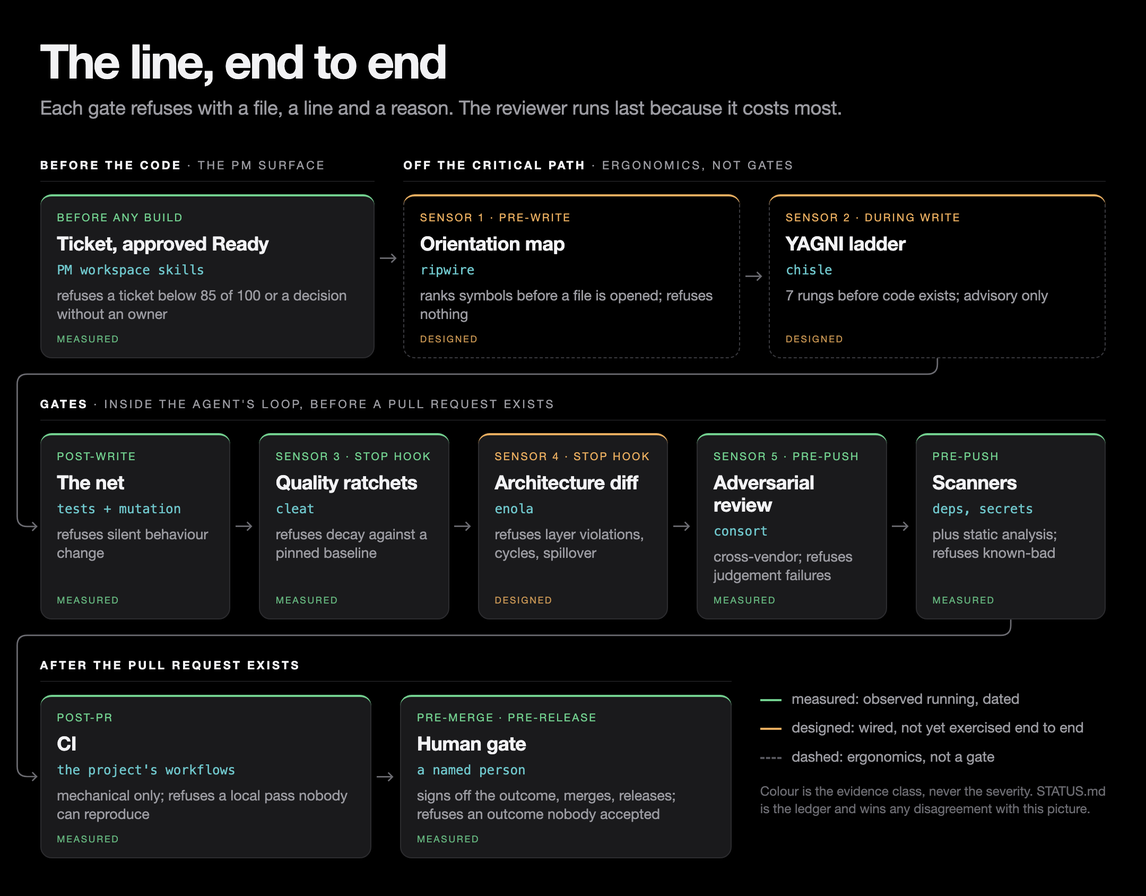
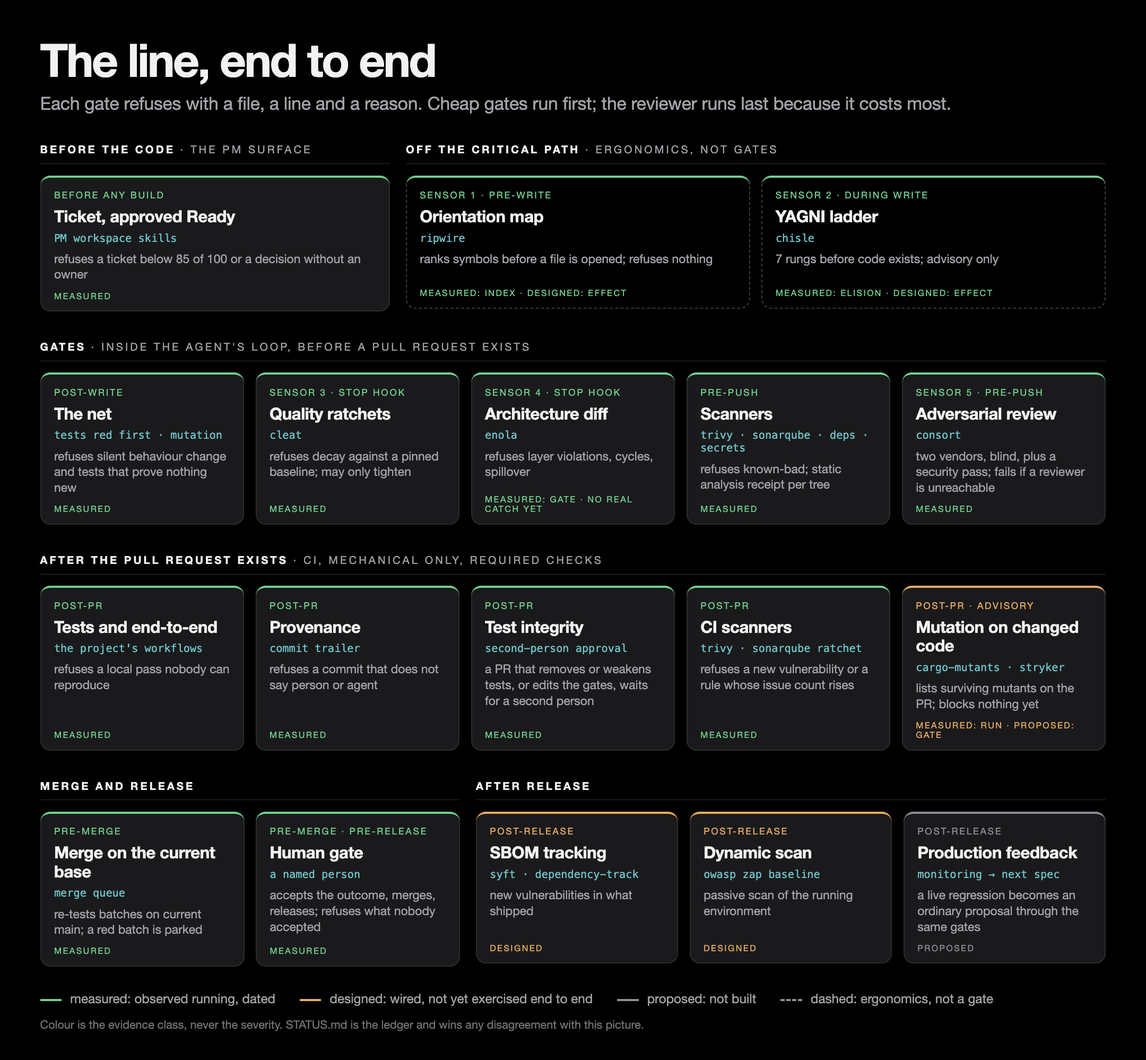
docs: redraw the line end to end with every gate and its current evidence class
The picture had stale classes (orientation map, YAGNI ladder and architecture diff shown as
designed while STATUS.md records them measured) and was missing the post-PR required checks
(provenance, test integrity, CI scanners), the merge queue, mutation in CI, and the
after-release stages. Generated from one source; README table and STATUS.md rows follow.

diff --git a/docs/img/src/the-line.html b/docs/img/src/the-line.html
@@ -1,182 +1,49 @@
 <!doctype html>
-<!-- Source for docs/img/the-line.png. Regenerate with docs/img/src/render.sh after editing. -->
-<html data-height="1250"><head><meta charset="utf-8"><title>The line, end to end</title>
-<style>
-  :root {
-    --bg: #000; --card: #1a1a1c; --edge: #2c2c2f; --text: #f2f2f4; --dim: #9b9ba1; --faint: #6c6c72;
-    --measured: #72d08f; --designed: #e8ad5f; --tool: #6fc6cb;
-  }
+<!-- Source for the line diagram. Regenerate the PNG with headless Chrome (docs/img/src/render.sh in the factory repository). -->
+<html data-height="1480"><head><meta charset="utf-8"><title>The line, end to end</title><style>
+  :root { --bg:#000; --card:#1a1a1c; --edge:#2c2c2f; --text:#f2f2f4; --dim:#a3a3a9; --faint:#74747a; --tool:#6fc6cb;
+    --g:#72d08f; --a:#e8ad5f; --p:#8f8f96; --u:#6fc6cb; }
   * { box-sizing: border-box; margin: 0; }
   html, body { background: var(--bg); }
   body { width: 1600px; padding: 52px 56px 56px; color: var(--text);
-    font-family: "SF Pro Display", -apple-system, "Helvetica Neue", Helvetica, Arial, sans-serif;
-    position: relative; }
-  h1 { font-size: 66px; font-weight: 700; letter-spacing: -2.6px; line-height: 1; }
-  .sub { font-size: 27px; color: var(--dim); margin-top: 16px; letter-spacing: -0.2px; }
-  .row { display: flex; align-items: stretch; margin-top: 54px; }
-  .group { display: flex; flex-direction: column; }
-  .label { font-size: 16px; letter-spacing: 3px; color: var(--dim); text-transform: uppercase;
-    padding-bottom: 12px; margin-bottom: 18px; border-bottom: 1px solid #2f2f33; white-space: nowrap; }
-  .label b { color: var(--text); font-weight: 600; }
-  .cards { display: flex; align-items: stretch; flex: 1; }
-  .card { flex: 1; min-width: 0; background: var(--card); border: 1.5px solid var(--edge);
-    border-radius: 16px; padding: 22px 22px 18px; display: flex; flex-direction: column;
-    position: relative; min-height: 212px; }
-  .card::before { content: ""; position: absolute; inset: -1.5px -1.5px auto -1.5px; height: 18px;
-    border-top: 3px solid var(--c); border-radius: 16px 16px 0 0; }
-  .card.measured { --c: var(--measured); }
-  .card.designed { --c: var(--designed); }
+    font-family: "SF Pro Display", -apple-system, "Helvetica Neue", Helvetica, Arial, sans-serif; }
+  h1 { font-size: 64px; font-weight: 700; letter-spacing: -2.4px; line-height: 1; }
+  .sub { font-size: 25px; color: var(--dim); margin-top: 14px; letter-spacing: -0.2px; }
+  .row { margin-top: 40px; display: grid; gap: 0 22px; }
+  .lab { font-size: 15px; letter-spacing: 3px; color: var(--dim); text-transform: uppercase; padding-bottom: 10px;
+    margin-bottom: 16px; border-bottom: 1px solid #2f2f33; white-space: nowrap; }
+  .lab b { color: var(--text); font-weight: 600; }
+  .cards { display: grid; gap: 16px; }
+  .card { background: var(--card); border: 1.5px solid var(--edge); border-radius: 14px; padding: 18px 18px 14px;
+    display: flex; flex-direction: column; position: relative; min-height: 186px; }
+  .card::before { content: ""; position: absolute; inset: -1.5px -1.5px auto -1.5px; height: 16px;
+    border-top: 3px solid var(--c); border-radius: 14px 14px 0 0; }
   .card.ghost { background: transparent; border-style: dashed; border-color: #3a3a3f; }
-  .k { font-size: 15px; letter-spacing: 2.2px; color: var(--c); text-transform: uppercase; }
-  .t { font-size: 27px; font-weight: 700; letter-spacing: -0.4px; margin-top: 12px; line-height: 1.15; }
-  .tool { font-family: "SF Mono", Menlo, Consolas, monospace; font-size: 18px; white-space: nowrap; color: var(--tool); margin-top: 10px; }
-  .r { font-size: 20px; color: var(--dim); margin-top: 12px; line-height: 1.3; }
-  .cls { margin-top: auto; padding-top: 14px; font-size: 13px; letter-spacing: 2px; color: var(--c);
-    text-transform: uppercase; opacity: .85; }
-  .gap { width: 40px; flex: none; display: flex; align-items: center; justify-content: center; }
-  .gap svg { width: 26px; height: 14px; }
-  .lead { width: 0; }
-  .legend { flex: 1; padding: 44px 0 0 40px; display: flex; flex-direction: column; gap: 16px;
-    font-size: 20px; color: var(--dim); }
-  .legend .sw { display: inline-block; width: 30px; height: 0; border-top: 3px solid; vertical-align: middle; margin-right: 14px; }
-  .legend .note { font-size: 18px; color: var(--faint); margin-top: 8px; line-height: 1.35; }
-  #wires { position: absolute; inset: 0; pointer-events: none; }
-</style></head>
-<body>
-<h1>The line, end to end</h1>
-<p class="sub">Each gate refuses with a file, a line and a reason. The reviewer runs last because it costs most.</p>
-
-<section class="row">
-  <div class="group" style="flex: 1">
-    <div class="label"><b>Before the code</b> · the PM surface</div>
-    <div class="cards">
-      <div class="card measured" id="first">
-        <div class="k">Before any build</div>
-        <div class="t">Ticket, approved Ready</div>
-        <div class="tool">PM workspace skills</div>
-        <div class="r">refuses a ticket below 85 of 100 or a decision without an owner</div>
-        <div class="cls">measured</div>
-      </div>
-    </div>
-  </div>
-  <div class="gap"><svg viewBox="0 0 26 14"><path d="M0 7h22M16 1l6 6-6 6" fill="none" stroke="#6c6c72" stroke-width="2"/></svg></div>
-  <div class="group" style="flex: 2.1">
-    <div class="label"><b>Off the critical path</b> · ergonomics, not gates</div>
-    <div class="cards">
-      <div class="card designed ghost">
-        <div class="k">Sensor 1 · pre-write</div>
-        <div class="t">Orientation map</div>
-        <div class="tool">ripwire</div>
-        <div class="r">ranks symbols before a file is opened; refuses nothing</div>
-        <div class="cls">designed</div>
-      </div>
-      <div class="gap"><svg viewBox="0 0 26 14"><path d="M0 7h22M16 1l6 6-6 6" fill="none" stroke="#6c6c72" stroke-width="2"/></svg></div>
-      <div class="card designed ghost" data-wire="a">
-        <div class="k">Sensor 2 · during write</div>
-        <div class="t">YAGNI ladder</div>
-        <div class="tool">chisle</div>
-        <div class="r">7 rungs before code exists; advisory only</div>
-        <div class="cls">designed</div>
-      </div>
-    </div>
-  </div>
+  .k { font-size: 13px; letter-spacing: 2px; color: var(--c); text-transform: uppercase; }
+  .t { font-size: 23px; font-weight: 700; letter-spacing: -0.3px; margin-top: 9px; line-height: 1.15; }
+  .tool { font-family: "SF Mono", Menlo, Consolas, monospace; font-size: 15px; color: var(--tool); margin-top: 8px; }
+  .r { font-size: 17px; color: var(--dim); margin-top: 9px; line-height: 1.3; }
+  .cls { margin-top: auto; padding-top: 12px; font-size: 12px; letter-spacing: 1.8px; color: var(--c); text-transform: uppercase; }
+  .legend { margin-top: 34px; display: flex; gap: 34px; flex-wrap: wrap; font-size: 18px; color: var(--dim); align-items: center; }
+  .legend .sw { display: inline-block; width: 30px; height: 0; border-top: 3px solid; vertical-align: middle; margin-right: 12px; }
+  .legend .dash { border-top-style: dashed; }
+  .note { font-size: 16px; color: var(--faint); margin-top: 14px; line-height: 1.4; max-width: 1400px; }
+</style></head><body>
+<h1>The line, end to end</h1><p class="sub">Each gate refuses with a file, a line and a reason. Cheap gates run first; the reviewer runs last because it costs most.</p>
+<section class="row" style="grid-template-columns:1fr 2fr">
+<div><div class="lab"><b>Before the code</b> · the PM surface</div><div class="cards" style="grid-template-columns:repeat(1,1fr)"><div class="card" style="--c:var(--g)"><div class="k">Before any build</div><div class="t">Ticket, approved Ready</div><div class="tool">PM workspace skills</div><div class="r">refuses a ticket below 85 of 100 or a decision without an owner</div><div class="cls">measured</div></div></div></div>
+<div><div class="lab"><b>Off the critical path</b> · ergonomics, not gates</div><div class="cards" style="grid-template-columns:repeat(2,1fr)"><div class="card ghost" style="--c:var(--g)"><div class="k">Sensor 1 · pre-write</div><div class="t">Orientation map</div><div class="tool">ripwire</div><div class="r">ranks symbols before a file is opened; refuses nothing</div><div class="cls">measured: index · designed: effect</div></div><div class="card ghost" style="--c:var(--g)"><div class="k">Sensor 2 · during write</div><div class="t">YAGNI ladder</div><div class="tool">chisle</div><div class="r">7 rungs before code exists; advisory only</div><div class="cls">measured: elision · designed: effect</div></div></div></div>
 </section>
-
-<section class="row">
-  <div class="group" style="flex: 1">
-    <div class="label"><b>Gates</b> · inside the agent's loop, before a pull request exists</div>
-    <div class="cards">
-      <div class="card measured" data-wire-in="a">
-        <div class="k">Post-write</div>
-        <div class="t">The net</div>
-        <div class="tool">tests + mutation</div>
-        <div class="r">refuses silent behaviour change</div>
-        <div class="cls">measured</div>
-      </div>
-      <div class="gap"><svg viewBox="0 0 26 14"><path d="M0 7h22M16 1l6 6-6 6" fill="none" stroke="#6c6c72" stroke-width="2"/></svg></div>
-      <div class="card measured">
-        <div class="k">Sensor 3 · Stop hook</div>
-        <div class="t">Quality ratchets</div>
-        <div class="tool">cleat</div>
-        <div class="r">refuses decay against a pinned baseline</div>
-        <div class="cls">measured</div>
-      </div>
-      <div class="gap"><svg viewBox="0 0 26 14"><path d="M0 7h22M16 1l6 6-6 6" fill="none" stroke="#6c6c72" stroke-width="2"/></svg></div>
-      <div class="card designed">
-        <div class="k">Sensor 4 · Stop hook</div>
-        <div class="t">Architecture diff</div>
-        <div class="tool">enola</div>
-        <div class="r">refuses layer violations, cycles, spillover</div>
-        <div class="cls">designed</div>
-      </div>
-      <div class="gap"><svg viewBox="0 0 26 14"><path d="M0 7h22M16 1l6 6-6 6" fill="none" stroke="#6c6c72" stroke-width="2"/></svg></div>
-      <div class="card measured">
-        <div class="k">Sensor 5 · pre-push</div>
-        <div class="t">Adversarial review</div>
-        <div class="tool">consort</div>
-        <div class="r">cross-vendor; refuses judgement failures</div>
-        <div class="cls">measured</div>
-      </div>
-      <div class="gap"><svg viewBox="0 0 26 14"><path d="M0 7h22M16 1l6 6-6 6" fill="none" stroke="#6c6c72" stroke-width="2"/></svg></div>
-      <div class="card measured" data-wire="b">
-        <div class="k">Pre-push</div>
-        <div class="t">Scanners</div>
-        <div class="tool">deps, secrets</div>
-        <div class="r">plus static analysis; refuses known-bad</div>
-        <div class="cls">measured</div>
-      </div>
-    </div>
-  </div>
+<section class="row" style="grid-template-columns:5fr">
+<div><div class="lab"><b>Gates</b> · inside the agent&#x27;s loop, before a pull request exists</div><div class="cards" style="grid-template-columns:repeat(5,1fr)"><div class="card" style="--c:var(--g)"><div class="k">Post-write</div><div class="t">The net</div><div class="tool">tests red first · mutation</div><div class="r">refuses silent behaviour change and tests that prove nothing new</div><div class="cls">measured</div></div><div class="card" style="--c:var(--g)"><div class="k">Sensor 3 · stop hook</div><div class="t">Quality ratchets</div><div class="tool">cleat</div><div class="r">refuses decay against a pinned baseline; may only tighten</div><div class="cls">measured</div></div><div class="card" style="--c:var(--g)"><div class="k">Sensor 4 · stop hook</div><div class="t">Architecture diff</div><div class="tool">enola</div><div class="r">refuses layer violations, cycles, spillover</div><div class="cls">measured: gate · no real catch yet</div></div><div class="card" style="--c:var(--g)"><div class="k">Pre-push</div><div class="t">Scanners</div><div class="tool">trivy · sonarqube · deps · secrets</div><div class="r">refuses known-bad; static analysis receipt per tree</div><div class="cls">measured</div></div><div class="card" style="--c:var(--g)"><div class="k">Sensor 5 · pre-push</div><div class="t">Adversarial review</div><div class="tool">consort</div><div class="r">two vendors, blind, plus a security pass; fails if a reviewer is unreachable</div><div class="cls">measured</div></div></div></div>
 </section>
-
-<section class="row">
-  <div class="group" style="flex: 2">
-    <div class="label"><b>After the pull request exists</b></div>
-    <div class="cards">
-      <div class="card measured" data-wire-in="b">
-        <div class="k">Post-PR</div>
-        <div class="t">CI</div>
-        <div class="tool">the project's workflows</div>
-        <div class="r">mechanical only; refuses a local pass nobody can reproduce</div>
-        <div class="cls">measured</div>
-      </div>
-      <div class="gap"><svg viewBox="0 0 26 14"><path d="M0 7h22M16 1l6 6-6 6" fill="none" stroke="#6c6c72" stroke-width="2"/></svg></div>
-      <div class="card measured">
-        <div class="k">Pre-merge · pre-release</div>
-        <div class="t">Human gate</div>
-        <div class="tool">a named person</div>
-        <div class="r">signs off the outcome, merges, releases; refuses an outcome nobody accepted</div>
-        <div class="cls">measured</div>
-      </div>
-    </div>
-  </div>
-  <div class="legend">
-    <div><span class="sw" style="border-color: var(--measured)"></span>measured: observed running, dated</div>
-    <div><span class="sw" style="border-color: var(--designed)"></span>designed: wired, not yet exercised end to end</div>
-    <div><span class="sw" style="border-color: #55555b; border-top-style: dashed"></span>dashed: ergonomics, not a gate</div>
-    <div class="note">Colour is the evidence class, never the severity. STATUS.md is the ledger and wins any disagreement with this picture.</div>
-  </div>
+<section class="row" style="grid-template-columns:5fr">
+<div><div class="lab"><b>After the pull request exists</b> · CI, mechanical only, required checks</div><div class="cards" style="grid-template-columns:repeat(5,1fr)"><div class="card" style="--c:var(--g)"><div class="k">Post-PR</div><div class="t">Tests and end-to-end</div><div class="tool">the project&#x27;s workflows</div><div class="r">refuses a local pass nobody can reproduce</div><div class="cls">measured</div></div><div class="card" style="--c:var(--g)"><div class="k">Post-PR</div><div class="t">Provenance</div><div class="tool">commit trailer</div><div class="r">refuses a commit that does not say person or agent</div><div class="cls">measured</div></div><div class="card" style="--c:var(--g)"><div class="k">Post-PR</div><div class="t">Test integrity</div><div class="tool">second-person approval</div><div class="r">a PR that removes or weakens tests, or edits the gates, waits for a second person</div><div class="cls">measured</div></div><div class="card" style="--c:var(--g)"><div class="k">Post-PR</div><div class="t">CI scanners</div><div class="tool">trivy · sonarqube ratchet</div><div class="r">refuses a new vulnerability or a rule whose issue count rises</div><div class="cls">measured</div></div><div class="card" style="--c:var(--a)"><div class="k">Post-PR · advisory</div><div class="t">Mutation on changed code</div><div class="tool">cargo-mutants · stryker</div><div class="r">lists surviving mutants on the PR; blocks nothing yet</div><div class="cls">measured: run · proposed: gate</div></div></div></div>
 </section>
-
-<svg id="wires"></svg>
-<script>
-  // Row-to-row connectors: out of the bottom of the last card in a row, round the left margin,
-  // into the first card of the next row.
-  const svg = document.getElementById('wires');
-  const body = document.body.getBoundingClientRect();
-  svg.setAttribute('width', body.width); svg.setAttribute('height', body.height);
-  const ns = 'http://www.w3.org/2000/svg';
-  for (const from of document.querySelectorAll('[data-wire]')) {
-    const to = document.querySelector(`[data-wire-in="${from.dataset.wire}"]`);
-    const a = from.getBoundingClientRect(), b = to.getBoundingClientRect();
-    const x0 = a.left + a.width / 2, y0 = a.bottom, ymid = a.bottom + 22, xl = 24, y1 = b.top + b.height / 2, r = 14;
-    const d = `M${x0} ${y0} V${ymid - r} q0 ${r} ${-r} ${r} H${xl + r} q${-r} 0 ${-r} ${r} V${y1 - r} q0 ${r} ${r} ${r} H${b.left - 4}`;
-    const p = document.createElementNS(ns, 'path');
-    p.setAttribute('d', d); p.setAttribute('fill', 'none'); p.setAttribute('stroke', '#6c6c72'); p.setAttribute('stroke-width', '2');
-    svg.appendChild(p);
-    const h = document.createElementNS(ns, 'path');
-    h.setAttribute('d', `M${b.left - 11} ${y1 - 6} l6 6 -6 6`); h.setAttribute('fill', 'none'); h.setAttribute('stroke', '#6c6c72'); h.setAttribute('stroke-width', '2');
-    svg.appendChild(h);
-  }
-</script>
+<section class="row" style="grid-template-columns:2fr 3fr">
+<div><div class="lab"><b>Merge and release</b></div><div class="cards" style="grid-template-columns:repeat(2,1fr)"><div class="card" style="--c:var(--g)"><div class="k">Pre-merge</div><div class="t">Merge on the current base</div><div class="tool">merge queue</div><div class="r">re-tests batches on current main; a red batch is parked</div><div class="cls">measured</div></div><div class="card" style="--c:var(--g)"><div class="k">Pre-merge · pre-release</div><div class="t">Human gate</div><div class="tool">a named person</div><div class="r">accepts the outcome, merges, releases; refuses what nobody accepted</div><div class="cls">measured</div></div></div></div>
+<div><div class="lab"><b>After release</b></div><div class="cards" style="grid-template-columns:repeat(3,1fr)"><div class="card" style="--c:var(--a)"><div class="k">Post-release</div><div class="t">SBOM tracking</div><div class="tool">syft · dependency-track</div><div class="r">new vulnerabilities in what shipped</div><div class="cls">designed</div></div><div class="card" style="--c:var(--a)"><div class="k">Post-release</div><div class="t">Dynamic scan</div><div class="tool">owasp zap baseline</div><div class="r">passive scan of the running environment</div><div class="cls">designed</div></div><div class="card" style="--c:var(--p)"><div class="k">Post-release</div><div class="t">Production feedback</div><div class="tool">monitoring → next spec</div><div class="r">a live regression becomes an ordinary proposal through the same gates</div><div class="cls">proposed</div></div></div></div>
+</section>
+<div class="legend"><span><span class="sw" style="border-color:var(--g)"></span>measured: observed running, dated</span><span><span class="sw" style="border-color:var(--a)"></span>designed: wired, not yet exercised end to end</span><span><span class="sw" style="border-color:var(--p)"></span>proposed: not built</span><span><span class="sw dash" style="border-color:var(--p)"></span>dashed: ergonomics, not a gate</span></div>
+<p class="note">Colour is the evidence class, never the severity. STATUS.md is the ledger and wins any disagreement with this picture.</p>
 </body></html>

diff --git a/README.md b/README.md
@@ -96,10 +96,10 @@ before a pull request exists. Two run after it. The order is an economic argumen
 the reviewer is the most expensive resource on the line, so a review of code that a ratchet
 would have failed is waste.
 
-![The line, end to end. Before the code: the ticket, approved Ready by a person (measured). Off the critical path, ergonomics and not gates: the orientation map, sensor 1, ripwire (designed), and the YAGNI ladder, sensor 2, chisle (designed). Gates inside the agent's loop before a pull request exists: the net, tests and mutation (measured); quality ratchets, sensor 3, cleat (measured); architecture diff, sensor 4, enola (designed); adversarial review, sensor 5, consort, cross-vendor (measured); scanners (measured). After the pull request exists: CI, mechanical only (measured), and the human gate, a named person who signs off, merges and releases (measured).](docs/img/the-line.png)
+![The line, end to end. Before the code: the ticket, approved Ready by a person (measured). Off the critical path, ergonomics and not gates: the orientation map, sensor 1, ripwire (index measured, effect designed), and the YAGNI ladder, sensor 2, chisle (elision measured, effect designed). Gates inside the agent's loop before a pull request exists: the net, tests red first and mutation (measured); quality ratchets, sensor 3, cleat (measured); architecture diff, sensor 4, enola (gate measured, no real catch yet); scanners, Trivy, SonarQube, dependencies and secrets (measured); adversarial review, sensor 5, consort, two vendors and a security pass (measured). After the pull request exists, CI as required checks: tests and end-to-end, provenance trailer, test integrity (a pull request that weakens tests or edits the gates waits for a second person), CI scanners with a SonarQube issue ratchet (all measured), and mutation on changed code (run measured, gate proposed). Merge and release: merge on the current base through a merge queue and the human gate (measured). After release: SBOM tracking and a dynamic scan (designed), production feedback into the next spec (proposed).](docs/img/the-line.png)
 
 Colour is the evidence class, never the severity: green is **measured**, amber is **designed**
-(wired, not yet exercised end to end), and a dashed card is ergonomics rather than a gate.
+(wired, not yet exercised end to end), grey is **proposed** (not built), and a dashed card is ergonomics rather than a gate.
 `STATUS.md` is the ledger and wins any disagreement with this picture. The picture is rendered
 from [docs/img/src/the-line.html](docs/img/src/the-line.html) by `docs/img/src/render.sh`;
 edit the HTML and re-render, never the PNG.
@@ -107,15 +107,23 @@ edit the HTML and re-render, never the PNG.
 | Layer | Tool | When | Refuses | Class |
 |---|---|---|---|---|
 | Ticket | the PM workspace skills above | before any build | a ticket below 85, an open business decision without an owner | `measured` (ticket, readiness) / `designed` (the rest of the catalogue) |
-| Orientation map (sensor 1) | ripwire | pre-write | nothing, it is not a gate | `designed` |
-| YAGNI ladder (sensor 2) | chisle | during write | over-building, advisory only | `designed` |
+| Orientation map (sensor 1) | ripwire | pre-write | nothing, it is not a gate | `measured` (index) / `designed` (effect on a build) |
+| YAGNI ladder (sensor 2) | chisle | during write | over-building, advisory only | `measured` (elision) / `designed` (effect) |
 | The net | tests, coverage, mutation kill rate, fail-on-base | post-write | silent behaviour change, tests that notice nothing, tests that prove nothing new | `measured` (kill-rate ratchet and fail-on-base `proposed`) |
 | Quality ratchets (sensor 3) | cleat | Stop hook | decay against a pinned baseline | `measured` |
-| Architecture diff (sensor 4) | enola | Stop hook | layer violations, cycles, scope spillover | `designed` |
+| Architecture diff (sensor 4) | enola | Stop hook | layer violations, cycles, scope spillover | `measured` (gate) / `designed` (no real catch yet) |
 | Adversarial review (sensor 5) | consort | pre-push | judgement failures | `measured` |
-| Scanners | dependency, secret, static analysis | pre-push | known-bad | `measured` |
+| Scanners | Trivy, SonarQube, dependency, secret | pre-push | known-bad | `measured` |
 | CI | the project's workflows | post-PR | a local pass nobody can reproduce | `measured` |
+| Provenance | commit trailer, required check | post-PR | a commit that does not say person or agent | `measured` |
+| Test integrity | second-person approval, required check | post-PR | a pull request that removes or weakens tests, or edits the gates, without a second person's approval | `measured` |
+| CI scanners | Trivy, SonarQube issue ratchet | post-PR | a new vulnerability, a rule whose open-issue count rises | `measured` |
+| Mutation on changed code | cargo-mutants, Stryker | post-PR | nothing yet: lists surviving mutants on the pull request | `measured` (run) / `proposed` (gate) |
+| Merge on the current base | merge queue | pre-merge | a batch that is red on current main | `measured` |
 | Human gate | a named person | pre-merge, pre-release | an outcome nobody accepted | `measured` |
+| SBOM tracking | Syft, Dependency-Track | post-release | a new vulnerability in what shipped | `designed` |
+| Dynamic scan | OWASP ZAP baseline | post-release | known-bad behaviour of the running environment | `designed` |
+| Production feedback | monitoring into the next spec | post-release | a live regression nobody turned into a proposal | `proposed` |
 
 The five sensors keep the numbering they carry in [05-sensor-stack](docs/05-sensor-stack.md);
 the other layers are not sensors and are deliberately unnumbered, so there is one numbering

diff --git a/STATUS.md b/STATUS.md
@@ -42,7 +42,10 @@ Which parts of the design sit in which evidence class, as of 2026-09-15. See
 | Money tiering per class with self-testing predicate | measured | legacy core | |
 | Layering as lint over declared dependencies | measured | legacy core | 0 violations, no exemptions |
 | Local-only phase enforced by pre-push hook | measured | legacy core, the reference product | the reference product's hook ignores the ref list and gates a pure branch delete; open |
-| Provenance trailer | measured (trailer) / proposed (rejection check) | the reference product | |
+| Provenance trailer | measured (trailer and rejection check) | the reference product, a second product | 2026-11-26: a required check on the second product rejects a commit without `Provenance: human` or `Provenance: agent:<name>` |
+| Test integrity (removing or renaming a test, fewer assertions, a test switched off, a cut test contract, or an edit to the gate files needs a non-author approval; check posted from the base branch's code) | measured | a second product | 2026-11-26: dry run over the last 200 merges flagged 18 % (5 % on the specification repository); running on both repositories, becoming a required check; known gap: a pull request that edits workflows can still imitate the check's name until a separately owned identity posts it |
+| CI scanners (Trivy on lockfiles, secrets, manifests and built images; SonarQube in the CI job, a committed per-rule issue baseline that may only fall) | measured | a second product | 2026-11-26: required checks on both repositories; the first pull request after the switch was stopped by the ratchet on its own new script |
+| SBOM tracking and dynamic scan (Syft into Dependency-Track; OWASP ZAP passive baseline of staging) | designed | a second product | SBOM onboarding by the security function; the ZAP workflow is merged and waits for staging to accept the runners |
 | Branch protection as the merge gate | measured | the reference product (ruleset, 2026-09-08), legacy core (org plan) | the reference product moved to a paid plan; ruleset = PR + five required checks, empty bypass list, refused a direct push from owner and bot. Incident 2026-09-09 18:34Z: an agent merged #44 under the owner's login on a handoff's instruction, indistinguishable from a human merge in the ledger; decided the same evening that the loop does not merge and a handoff never instructs one (ADR 0006) |
 | Per-stage wall-clock and tokens | measured | the reference product | principal session tokens not instrumented |
 | CI as a required check on a real product | measured | the reference product | first full run 40 min backend (serial suite); tiered: 19 min impact-selected backend on the PR (hosted 2-core), 6 min full suite on the on-demand 8-core runner after merge; the checks gated a real merge in cycle 3. 2026-09-09: PR-path backend moved to the same on-demand runner (the reference product #31, #32): full suite 23m23s hosted -> 11m15s, runner woken by a pull_request_target run of main's code so the WIF ref pin holds; three reviewers converged on the residual (unreviewed PR code on a stateful VM), accepted, stateless per-wake VM queued as phase 2. Same day, #34: the first-ever impact-selected run (#33) failed on the whole-suite coverage floor (tiering had shipped without that branch executing), a deleted test module now forces FULL, and a late nightly displaced a merge's pending run in the shared concurrency group (per-run groups now) | 2026-09-09 evening (#41): a scripts/ci script selects its own unit test instead of forcing FULL (two 12-min runs had been for a Jira script), and cleat diffs against the MERGE BASE (five baseline collisions in one day were a two-dot diff against main's tip). Measured: FULL 10m30s / 9,480 tests / 8 workers, queue on the single VM up to 11m44s
